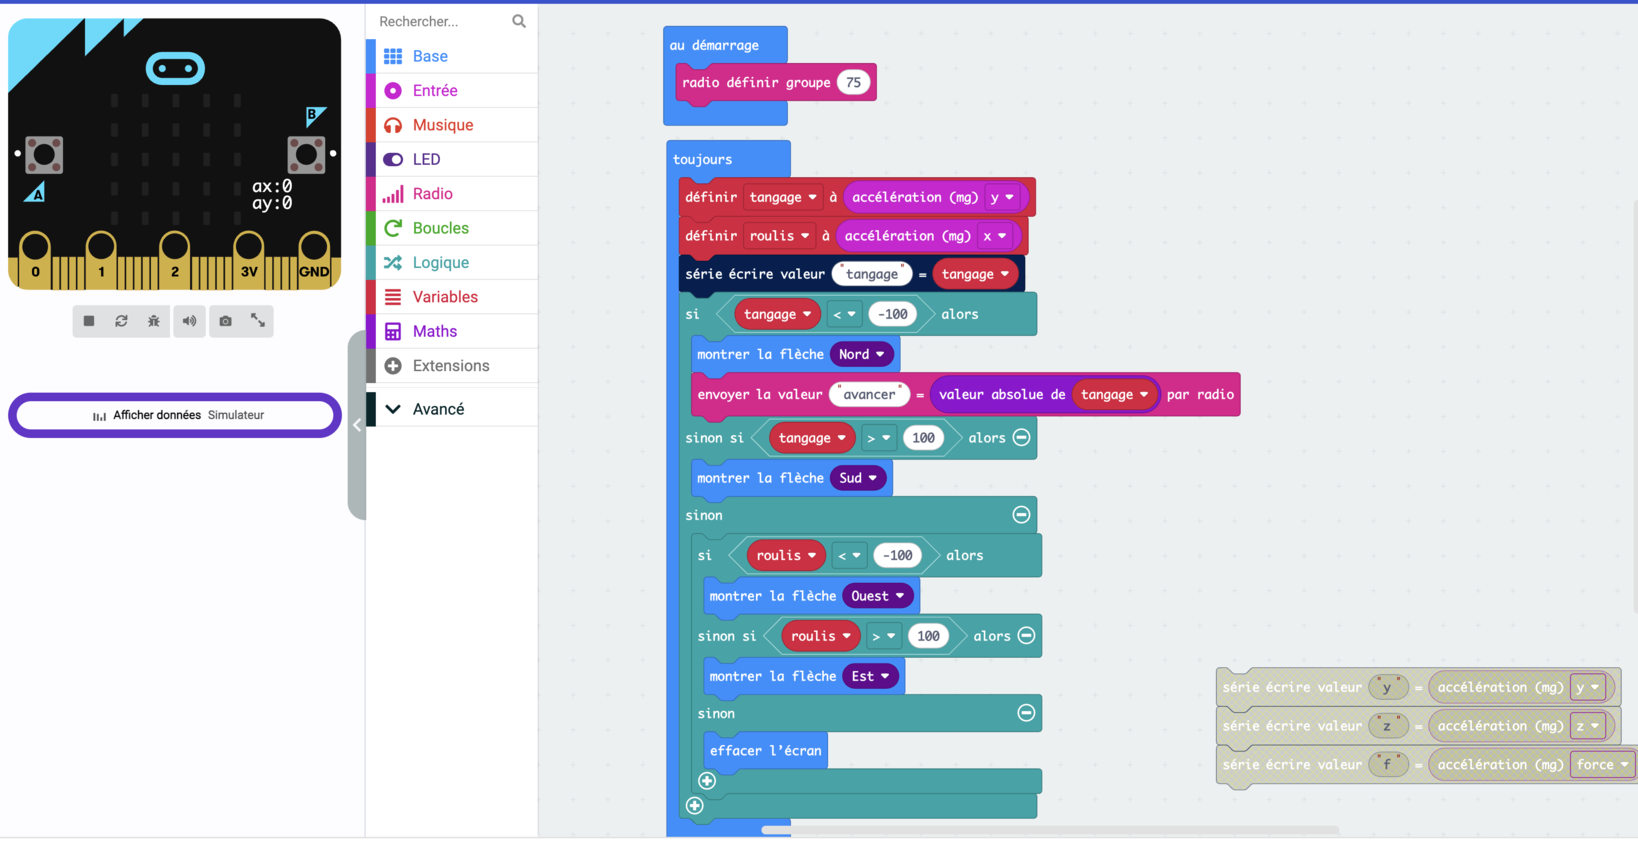
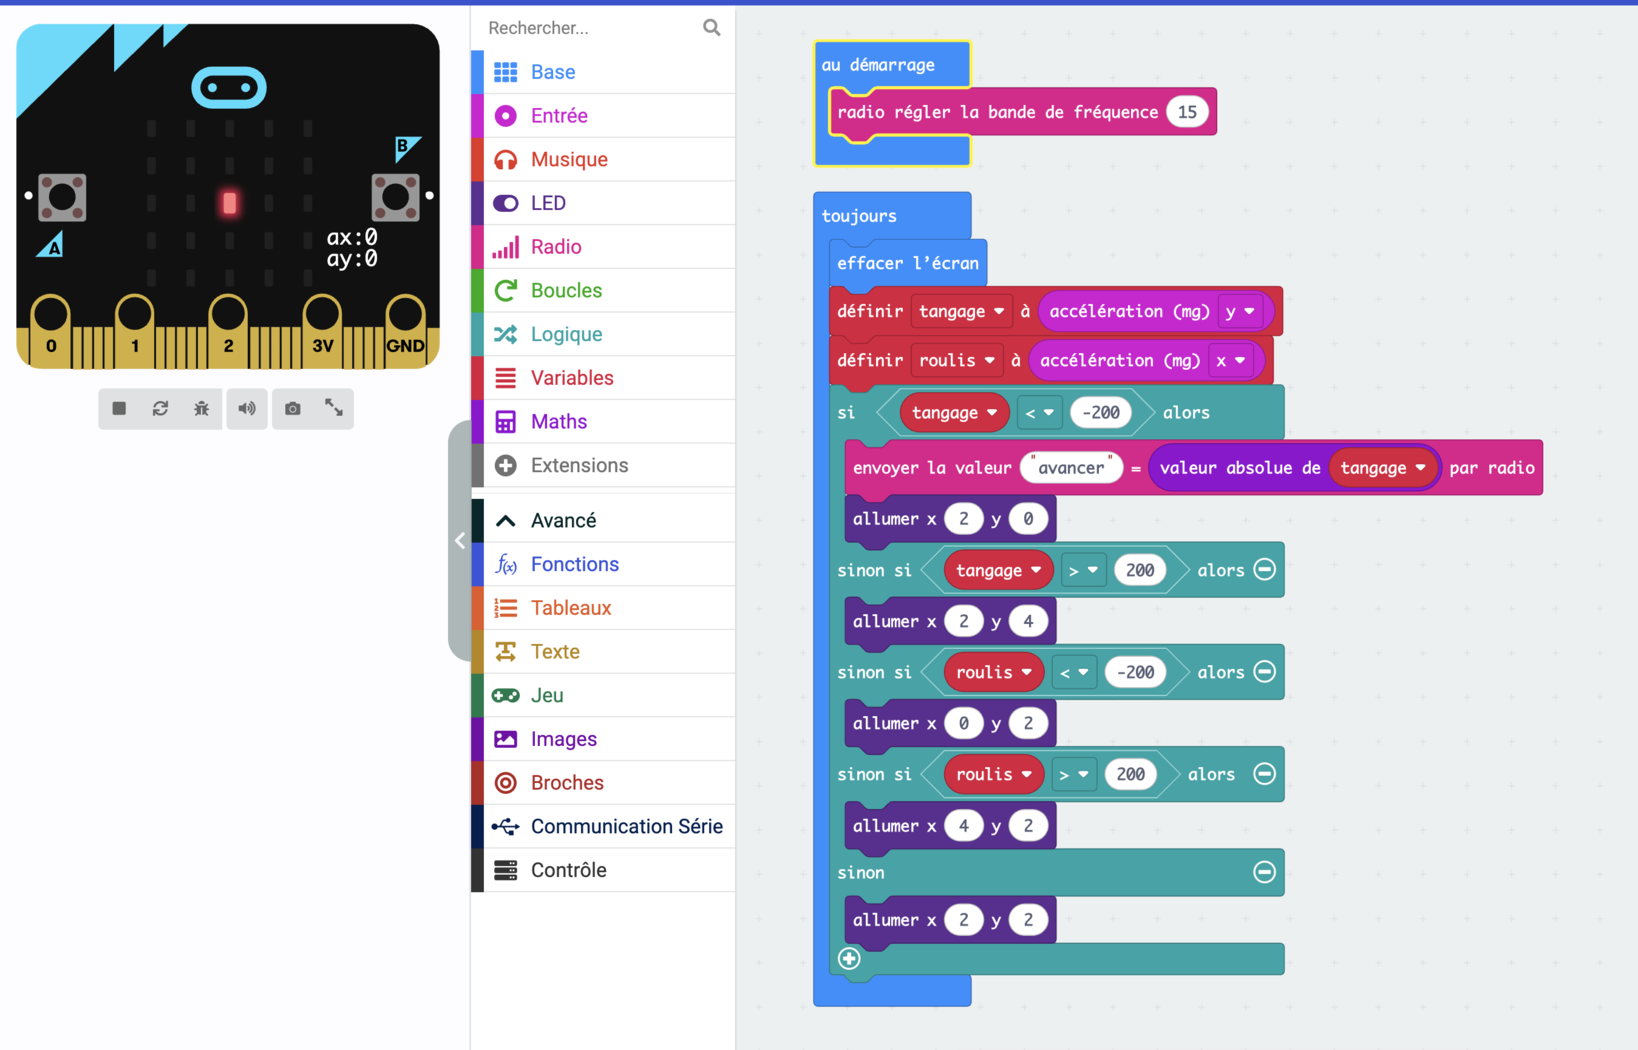
S4 : isolation par bande de fréquence, protocole imposé, points LED
La bande de fréquence remplace le groupe. Le groupe laisse toutes les
cartes sur la même fréquence et ne fait que trier à l'arrivée : à douze
émetteurs continus, les messages se gênent quand même. La page et la
fiche expliquent la différence plutôt que de l'escamoter.

Le protocole n'est plus construit par le groupe, il est donné — cinq
clés, au caractère près. La raison est écrite noir sur blanc : en phase
2, un rover devra obéir à la télécommande d'un coéquipier.

Flèches remplacées par les points LED des deux côtés, avec une pause de
100 ms en fin de boucle d'émission : sans elle la télécommande sature le
récepteur.

La linéarisation disparaît — les tests sont à plat dès la S3.

Six captures. Le carnet suit, ainsi que la fiche MakeCode, dont la
section radio passe à la bande et signale que le simulateur l'ignore.

diff --git a/animation/rover/s04.md b/animation/rover/s04.md
@@ -10,7 +10,7 @@
 
 ## Notions abordées
 
-Liaison radio entre deux micro:bit · groupe radio comme canal · protocole : canal partagé et vocabulaire partagé · message clé-valeur · troncature silencieuse d'une clé au-delà de 8 caractères · comparaison de chaînes distincte de la comparaison de nombres · gestionnaire d'événement `quand une donnée est reçue` · linéarisation d'un `si` imbriqué en suite de `sinon si` · évaluation des conditions dans l'ordre · témoin visuel comme instrument de débogage · réemploi des cinq fonctions de la S2 et des seuils d'inclinaison de la S3.
+Liaison radio entre deux micro:bit · bande de fréquence comme canal, et ce qui la distingue du groupe · protocole : canal partagé et vocabulaire partagé · protocole **imposé** et intérêt de la standardisation · message clé-valeur · troncature silencieuse d'une clé au-delà de 8 caractères · comparaison de chaînes distincte de la comparaison de nombres · gestionnaire d'événement `quand une donnée est reçue` · débit d'émission et saturation du récepteur · témoin visuel comme instrument de débogage · réemploi des cinq fonctions de la S2 et des seuils de la S3.
 
 ## Livrable attendu
 
@@ -20,7 +20,7 @@ Rover individuel terminé, piloté par radio sans fil : télécommande émettric
 
 ## Prérequis
 
-Séance 2 : les cinq fonctions de mouvement dans le projet `rover`. Séance 3 : le projet `telecommande` avec ses seuils d'inclinaison et son affichage de flèches. Un jeune qui n'a ni l'un ni l'autre ne peut pas suivre la séance — voir Points de vigilance.
+Séance 2 : les cinq fonctions de mouvement dans le projet `rover`. Séance 3 : le projet `telecommande` avec ses seuils d'inclinaison et son affichage par point LED. Un jeune qui n'a ni l'un ni l'autre ne peut pas suivre la séance — voir Points de vigilance.
 
 ## Ressources humaines
 
@@ -47,7 +47,8 @@ Séance 2 : les cinq fonctions de mouvement dans le projet `rover`. Séance 3 : 
 ## Ressources numériques
 
 - MakeCode, projets `rover` et `telecommande` déjà existants sur le poste de chaque jeune
-- **La liste des numéros de poste**, affichée ou distribuée : c'est le groupe radio de chacun
+- **La liste des numéros de poste**, affichée ou distribuée : c'est la bande de fréquence de chacun
+- **Le protocole écrit au tableau** — les cinq clés, à recopier au caractère près
 - Le livre en ligne, carnet de bord
 
 ## Lancement (10 min)
@@ -66,18 +67,20 @@ Annonce du jour : « aujourd'hui, votre rover perd son fil. Mais pour ça, il va
 
 **Poser le problème (8 min)** — deux machines qui n'ont jamais communiqué. Qu'est-ce qu'il leur faut ? Faire émerger les deux conditions plutôt que les donner :
 
-- **Le même canal.** Toutes les cartes de la salle émettent sur la même fréquence ; le groupe est le numéro qui trie. Le groupe de chacun est **le numéro de son poste** — c'est ce qui garantit qu'aucun rover n'obéira au voisin, et ça se retient sans être noté.
+- **Le même canal.** Chacun prend **sa bande de fréquence**, égale au numéro de son poste. Deux cartes qui ne sont pas sur la même bande n'émettent pas au même endroit du spectre et ne s'entendent pas du tout. Le bloc `radio définir groupe` existe aussi, mais il laisse toutes les cartes sur la même fréquence et ne fait que trier à l'arrivée : à douze émetteurs continus, les messages se gênent quand même. **C'est la bande qu'on utilise, et la différence vaut d'être expliquée** — elle reviendra dès qu'il y aura plusieurs rovers sur un terrain.
 - **Le même vocabulaire.** Un canal partagé ne suffit pas : encore faut-il que le mot envoyé soit celui que l'autre attend.
 
-Nommer alors la chose : ces deux accords s'appellent un **protocole**. Insister sur le fait qu'il n'est pas fourni — c'est le groupe qui l'écrit, et il s'écrit **avant** le programme.
+Nommer alors la chose : ces deux accords s'appellent un **protocole**.
 
-Le message porte **une clé** (le mot d'ordre) et **une valeur** (un nombre qui l'accompagne). Construire le tableau au tableau blanc, collectivement : cinq clés, et ce que chacune transporte.
+**Le protocole est imposé, pas construit avec eux**, et c'est un choix à assumer devant le groupe : `avancer`, `reculer`, `gauche`, `droite`, `arreter`. La raison se dit en une phrase — en phase 2, un rover devra obéir à la télécommande d'un coéquipier et se faire comprendre d'un rover qui n'est pas le sien. Un protocole ne vaut que si tout le monde emploie le même. L'écrire au tableau et l'y laisser toute la séance.
+
+Le message porte **une clé** (le mot d'ordre) et **une valeur** (un nombre qui l'accompagne). Faire malgré tout raisonner sur le choix des mots : pourquoi `gauche` et pas `tournerAGauche` ? La réponse est la limite ci-dessous.
 
 > **La limite des 8 caractères est le moment à ne pas escamoter.** La carte tronque sans prévenir : `tournerAGauche` et `tournerADroite` arrivent tous les deux comme `tournerA`, et le rover tourne toujours du même côté. La panne est muette et le code a l'air juste. C'est sur le montage de test que ça s'est vu. **Le programme fautif n'est pas montré en image** dans le livre — voir les notes — donc il se montre ici, au tableau : écrire les cinq clés, compter les caractères, valider avant que personne ne code.
 
-**Coder l'émetteur (17 min)** — `radio définir groupe` dans `au démarrage`, puis `envoyer la valeur … par radio` greffé dans chaque branche du programme de la séance 3. La valeur envoyée est la valeur absolue de l'inclinaison.
+**Coder l'émetteur (17 min)** — `radio régler la bande de fréquence` dans `au démarrage`, puis `envoyer la valeur … par radio` greffé dans chaque branche du programme de la séance 3. La valeur envoyée est la valeur absolue de l'inclinaison.
 
-**La linéarisation se fait ici**, et elle se démontre : le `si` imbriqué de la S3 devient une suite de `sinon si` au même niveau. Faire dire pourquoi c'est équivalent — les conditions sont évaluées **dans l'ordre**, la première vraie gagne, les suivantes ne sont pas lues. Le gain est la relecture, pas le fonctionnement. Ceux qui ont fait l'exercice du roulis en S3 ont déjà l'imbrication sous les yeux ; pour les autres, c'est l'occasion de la rattraper à plat.
+**La pause de 100 ms en fin de boucle n'est pas un détail.** Sans elle la télécommande émet des centaines de messages par seconde, le récepteur ne suit pas et le rover pilote en retard. C'est le premier endroit du parcours où le **débit** devient un paramètre de conception. À faire constater en retirant la pause, si le temps le permet.
 
 **Modalité :** Résolution de problème collective, puis production individuelle en autonomie
 
@@ -91,11 +94,11 @@ Retour dans le projet `rover` de la séance 2. **Rien n'y est à refaire** : les
 
 **Le piège technique de l'activité** : la comparaison de textes. MakeCode a deux blocs d'égalité et le bloc par défaut compare des nombres. Celui qu'il faut a **deux cases blanches**, dans Logique. Sans cette indication, on perd dix minutes par jeune — le montrer au vidéoprojecteur avant de lâcher le groupe.
 
-La première branche est donnée sur la page (`si nom = "avancer"` → `appel avancer`), les quatre autres sont à produire. Chaque branche affiche aussi **une flèche** : c'est l'instrument de débogage de la séance, pas une décoration.
+La première branche est donnée sur la page (`si nom = "avancer"` → `appel avancer`), les quatre autres sont à produire. Chaque branche allume aussi **le même point que la télécommande** : c'est l'instrument de débogage de la séance, pas une décoration.
 
-Un dernier `sinon` attrape les clés inconnues et affiche une croix. **Il fait partie de l'énoncé**, pas des bonus : c'est lui qui transforme « rien ne se passe » en « le message est arrivé et je ne l'ai pas compris ». Deux pannes très différentes, qui ne se cherchent pas au même endroit — et la première leçon de gestion d'erreur du parcours.
+Un dernier `sinon` attrape les clés inconnues et **arrête les moteurs**. **Il fait partie de l'énoncé**, pas des bonus : c'est la première leçon de gestion d'erreur du parcours, et le réflexe est le bon — un ordre incompris ne doit pas faire rouler un véhicule.
 
-> **Point de contrôle animateur** — groupe identique sur les deux cartes, cinq clés strictement identiques des deux côtés (les faire lire à voix haute plutôt que les regarder), bloc de comparaison de **textes**, et une flèche dans chaque branche.
+> **Point de contrôle animateur** — bande de fréquence identique sur les deux cartes, cinq clés strictement identiques des deux côtés (les faire lire à voix haute plutôt que les regarder), bloc de comparaison de **textes**, et une flèche dans chaque branche.
 
 **Modalité :** Tutoriel guidé pas à pas, puis production individuelle en autonomie
 
@@ -121,9 +124,9 @@ Téléversement des deux programmes, USB débranché, passage sur accus, et pilo
 
 Chacun pilote son rover trente secondes devant le groupe.
 
-Question : « qu'est-ce qui se serait passé si on n'avait pas écrit le protocole ensemble, et que chacun avait choisi ses mots dans son coin ? »
+Question : « le protocole vous a été imposé. Qu'est-ce qui se serait passé si chacun avait choisi ses mots dans son coin, et qu'il fallait maintenant faire dialoguer deux rovers ? »
 
-Carnet de bord renseigné : groupe, cinq clés, seuils.
+Carnet de bord renseigné : bande de fréquence, seuils, et ce que le protocole imposé a évité.
 
 **Modalité :** Tour de table / partage oral
 
@@ -148,13 +151,14 @@ Groupe radio et cinq clés fournis écrits au tableau, à recopier · émetteur 
 ## Points de vigilance
 
 - **Un jeune sans le projet `rover` de la S2, ou sans le projet `telecommande` de la S3, est bloqué pour la séance entière.** Les projets MakeCode vivent dans le navigateur du poste : un changement d'ordinateur les fait disparaître. Vérifier l'attribution des postes **avant** l'ouverture, et garder deux projets de secours partageables par lien.
-- **Un groupe radio par poste, sans doublon.** Deux jeunes sur le même groupe pilotent le rover l'un de l'autre. C'est drôle cinq minutes, puis c'est un cours de dépannage pour rien — et la panne ressemble à s'y méprendre à un bug de code.
+- **Une bande de fréquence par poste, sans doublon.** Deux jeunes sur la même bande pilotent le rover l'un de l'autre. C'est drôle cinq minutes, puis c'est un cours de dépannage pour rien — et la panne ressemble à s'y méprendre à un bug de code.
+- **La bande de fréquence ne s'applique pas dans le simulateur.** Un jeune qui teste dans le navigateur ne verra aucune isolation ; ça ne se vérifie que sur les cartes.
 - **La limite des 8 caractères est silencieuse.** Elle ne produit ni erreur ni avertissement : le programme est juste, et le rover désobéit. Valider les cinq clés au tableau avant que qui que ce soit ne code.
 - **Le bloc de comparaison de textes** n'est pas celui proposé par défaut. Le montrer explicitement, sinon c'est dix minutes perdues par jeune.
 - **Prévoir les plaques de secours.** Personne ne repart de cette séance sans plaque : c'est la dernière où le rover individuel existe.
 - **La zone de pilotage se dégage avant**, pas pendant. Douze rovers lâchés entre les tables, c'est un rover sous une chaise et deux câbles arrachés.
 - **Ne pas laisser la remise des plaques déborder.** Elle est émotionnellement forte et peut manger vingt minutes. Cinq, chrono en main.
-- **Valeurs à garder alignées avec le livre** : seuils `−100` / `+100` (repris de la S3), clés `avancer` `reculer` `gauche` `droite` `arreter`, `speed` plafonné à `255`.
+- **Valeurs à garder alignées avec le livre** : seuils `−200` / `+200` (repris de la S3), points `2,0` `2,4` `0,2` `4,2` et `2,2` au repos, clés `avancer` `reculer` `gauche` `droite` `arreter`, pause de `100` ms, `speed` plafonné à `255`.
 
 ## Bilan après séance
 
@@ -178,19 +182,28 @@ Le prérequis de la S4 est lourd — deux projets MakeCode, pas un. À vérifier
 
 ### Les valeurs des captures
 
-Groupe radio **75** sur les deux cartes du montage de test. **C'est un exemple, pas la consigne** : en séance, le groupe de chacun est le numéro de son poste (1 à 12 ou 15). La page élève le dit dans le texte et signale « ici, le poste 75 » en légende.
+Bande de fréquence **15** sur les deux cartes du montage de test. **C'est un exemple, pas la consigne** : en séance, la bande de chacun est le numéro de son poste (1 à 12 ou 15). La plage utile va de 0 à 83, un mégahertz par pas à partir de 2400 MHz ; une carte neuve est sur la bande 7.
 
-Seuils **−100** / **+100**, inchangés depuis la S3. Valeur envoyée : `valeur absolue de tangage` ou `valeur absolue de roulis`, et `0` pour `arreter`.
+Seuils **−200** / **+200**, repris de la S3. Valeur envoyée : `valeur absolue de tangage` ou `valeur absolue de roulis`, et `0` pour `arreter`. Pause de **100 ms** en fin de boucle d'émission.
+
+Points LED, identiques des deux côtés : avancer `2,0`, reculer `2,4`, gauche `0,2`, droite `4,2`, repos `2,2`.
 
 Clés retenues : `avancer` (7), `reculer` (7), `gauche` (6), `droite` (6), `arreter` (7). Toutes conformes.
 
-Côté rover, `au démarrage` contient `montrer l'icône`, `radio définir groupe` et `jouer "bonjour"`. Le son au démarrage est le conseil de la fiche MakeCode appliqué : on sait que le programme tourne avant de chercher ailleurs.
+Côté rover, `au démarrage` contient `radio régler la bande de fréquence`, `montrer l'icône` et `jouer "bonjour"`. Le son au démarrage est le conseil de la fiche MakeCode appliqué : on sait que le programme tourne avant de chercher ailleurs.
 
 ### Ce que les captures ont révélé
 
 **Les clés trop longues.** Le montage de test est passé par `tournerAGauche` et `tournerADroite`, tronqués tous les deux à `tournerA`, avant d'être corrigé en `gauche` / `droite`. **La capture du programme fautif n'est pas publiée** : une image d'un programme faux induit en erreur quiconque regarde sans lire la légende, et sur une page d'atelier beaucoup regardent sans lire. Le piège est porté par le texte de la page élève et par un tableau « ce que tu tapes / ce qui part vraiment » dans la fiche MakeCode. À montrer au tableau en séance, en faisant compter les caractères.
 
-**Les flèches concordent.** La première capture du récepteur avait `gauche` sur Est et `droite` sur Ouest, l'inverse de la télécommande — ce qui aurait cassé le contrôle visuel de la section 8. Capture refaite, `26-rover-complet.png` est la bonne. Si une capture du récepteur est reprise un jour, c'est le premier point à revérifier.
+**L'affichage est passé de la flèche au point LED**, en même temps qu'en S3 et pour la même raison : `montrer la flèche` attend 400 ms après avoir affiché. Côté rover l'effet est pire qu'ailleurs — `quand une donnée est reçue` bloquerait 400 ms par message pendant que la télécommande émet en continu, et les ordres s'accumuleraient.
+
+**Les points doivent concorder des deux côtés**, c'est la condition du contrôle visuel. Si une capture est reprise un jour, c'est le premier point à revérifier : une première version, du temps des flèches, avait déjà inversé gauche et droite.
+
+**Deux réserves sur les captures publiées**, à reprendre :
+
+1. Sur `22-telecommande-complete.png`, le bloc `envoyer la valeur "arreter" = 0` est **à l'intérieur de la branche `sinon si roulis > 200`**, sous `allumer x 4 y 2`. Il devrait être dans le `sinon` final, avec `allumer x 2 y 2`. En l'état, pencher à droite envoie `droite` puis `arreter` au même tour de boucle, et le rover s'arrête au lieu de tourner.
+2. Sur `25-rover-complet.png`, le `sinon` des clés inconnues allume `2,4` — le même point que `reculer`. Le témoin devient ambigu. Un point inutilisé, `0,0` par exemple, distinguerait « je n'ai pas compris » de « je recule ».
 
 ### Arbitrages de rédaction
 

diff --git a/docs/fiches/makecode-prise-en-main.md b/docs/fiches/makecode-prise-en-main.md
@@ -186,20 +186,23 @@ Cinq points suffisent à faire une manette lisible : haut `2,0`, bas `2,4`, gauc
 
 Deux micro:bit communiquent sans fil, sans réseau et sans rien à installer. Les blocs sont dans la catégorie **Radio**.
 
-### Le groupe
+### La bande de fréquence
 
-Toutes les cartes de la salle émettent sur la même fréquence. Le **groupe** est le numéro qui les trie : une carte ne reçoit que les messages de son propre groupe, et ignore tous les autres.
-
-Un seul bloc, dans `au démarrage`, **sur chacune des deux cartes** :
+Deux cartes ne se parlent que si elles émettent **au même endroit du spectre**. Un seul bloc, dans `au démarrage`, **sur chacune des deux cartes** :
 
 <figure class="screenshot" markdown>
-![Le bloc « au démarrage » contenant « radio définir groupe 75 », et le curseur qui sert à régler le numéro](../assets/rover-s04/20-groupe-radio.png)
+![Le bloc « au démarrage » contenant « radio régler la bande de fréquence 15 »](../assets/rover-s04/20-bande-de-frequence.png)
 </figure>
 
-Le numéro va de `0` à `255`. Ce qui compte n'est pas lequel tu choisis, mais que **les deux cartes aient le même**, et que personne d'autre dans la salle ne l'utilise.
+Le numéro va de `0` à `83`, un mégahertz par pas à partir de 2400 : la bande `15` est à 2415 MHz. Par défaut, une carte neuve est sur la bande `7`.
 
-> [!NOTE] Groupe ≠ portée
-> Changer de groupe ne rend pas la liaison plus sûre ni plus longue. Ça sépare les conversations, rien de plus : n'importe qui peut régler son groupe sur le tien et écouter.
+> [!NOTE] Bande ou groupe ?
+> `radio définir groupe` trie aussi les conversations, mais toutes les cartes restent sur la même fréquence : elles s'entendent et filtrent à l'arrivée. Quand une salle entière émet en continu, les messages se gênent quoi qu'il arrive. La bande sépare vraiment — c'est elle qu'on utilise ici.
+>
+> Ni l'une ni l'autre ne rend la liaison plus sûre : n'importe qui peut se régler sur la tienne et écouter.
+
+> [!CAUTION] Le simulateur ne suit pas
+> La bande de fréquence ne s'applique qu'à une vraie carte. Dans le simulateur du navigateur, le bloc ne fait rien.
 
 ### Envoyer, recevoir
 

diff --git a/animation/rover/projet.md b/animation/rover/projet.md
@@ -104,7 +104,7 @@ Le parcours se déroule en deux temps. Pendant les quatre premières séances, c
 ## Séance 4 — Phase 2 — Exploration & création
 
 **Titre :** Pilote ton rover à distance
-**Notions :** protocole — canal partagé et vocabulaire partagé · groupe radio · message clé-valeur · troncature silencieuse au-delà de 8 caractères · comparaison de chaînes · gestionnaire d'événement `quand une donnée est reçue` · linéarisation d'un `si` imbriqué · témoin visuel comme instrument de débogage · réemploi des cinq fonctions de la S2 et des seuils de la S3
+**Notions :** protocole — canal partagé et vocabulaire partagé · bande de fréquence, et ce qui la distingue du groupe · protocole imposé et standardisation · message clé-valeur · troncature silencieuse au-delà de 8 caractères · comparaison de chaînes · gestionnaire d'événement `quand une donnée est reçue` · débit d'émission et saturation du récepteur · témoin visuel comme instrument de débogage · réemploi des cinq fonctions de la S2 et des seuils de la S3
 **Livrable intermédiaire :** rover individuel terminé et piloté par radio, protocole consigné au carnet, plaque montée — **fin du temps individuel**
 
 *La séance s'ouvre sur la remise des plaques imprimées et leur pose sur les rovers, en cinq minutes de lancement — pas en activité. La clôture est le pivot du parcours : annonce du travail en équipe et des missions, sans les chiffres.*

diff --git a/docs/carnet-de-bord/rover-s04.md b/docs/carnet-de-bord/rover-s04.md
@@ -25,17 +25,19 @@ En deux ou trois phrases, avec tes mots.
 
 ## Mon protocole
 
-**Mon groupe radio :**
+**Ma bande de fréquence :**
 
-Mes cinq clés, telles que je les ai tapées. **Huit caractères maximum.**
+Le protocole m'a été donné. **Pourquoi imposer les mêmes cinq mots à tout le monde**, avec mes mots :
 
-| Ce que ça commande | Ma clé | La valeur envoyée |
+<br><br>
+
+| Ce que ça commande | La clé | La valeur envoyée |
 |---|---|---|
-| Avancer | | |
-| Reculer | | |
-| Tourner à gauche | | |
-| Tourner à droite | | |
-| Arrêter | | |
+| Avancer | `avancer` | |
+| Reculer | `reculer` | |
+| Tourner à gauche | `gauche` | |
+| Tourner à droite | `droite` | |
+| Arrêter | `arreter` | `0` |
 
 **Mes seuils d'inclinaison** — les mêmes qu'en séance 3, ou je les ai changés ?
 
